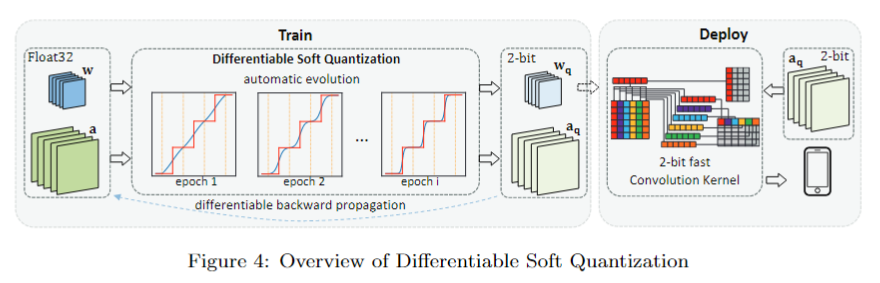
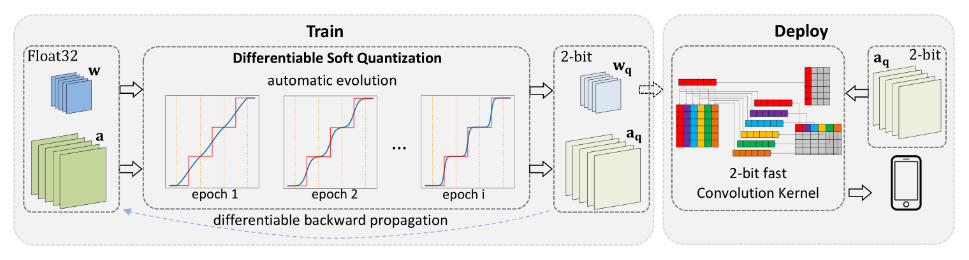
new pic

diff --git a/Binary Neural Networks A Survey.md b/Binary Neural Networks A Survey.md
@@ -155,13 +155,15 @@ $$
 
 Binary Neural Networks+ (BNN+)直接提出了改进的sign function导数近似，该函数鼓励二进制周围学习权重
 
-good quantization functions in forward propagation
+good quantization functions in forward propagation减少梯度误差
 
 **Differential Soft Quantization (DSQ)** method replacing the traditional quantization function with a soft quantization function
 $$
 \varphi(x)=s\tanh\left(k\left(x-m_i\right)\right),\quad\mathrm{if}\quad x\in\mathcal{P}_i
 $$
 where k determines the shape of the asymptotic function, s is a scaling factor to make the soft quantization function smooth and mi is the center of the interval Pi.
+
+![fig4](https://github.com/hamingsi/papers_notes/raw/478f56ea06eba01e9bae3337d4f8f616fdc876d8/pictures/BNN/fig4.png)
 
 IR-Net provided a new perspective for improving BNNs that retaining **both forward and backward information** is crucial for accurate BNNs, and it is **the first to** design BNNs considering both forward and backward information retention
 
@@ -226,8 +228,24 @@ XNOR-Net 提出了 smooth transition  addition shortcuts scale factors
 
 ##### Future Trend and Conclusions
 
-在前向和反向中保留好信息
+1.在前向和反向中保留好信息
 
-customizing or transferring binary networks for different tasks, designing hardware-friendly or energy-economic binarization algorithms, etc.
+2.customizing or transferring binary networks for different tasks, designing hardware-friendly or energy-economic binarization algorithms, etc.
 
-8-bit训练的可能性
+3.8-bit训练的可能性
+
+
+
+
+
+Binarized Neural Networks
+
+XNOR-Net: ImageNet Classification Using Binary Convolutional Neural Networks
+
+Bi-Real Net: Enhancing the Performance of 1-bit CNNs With Improved Representational Capability and Advanced Training Algorithm
+
+Estimating or propagating gradients through stochastic neurons for conditional computation
+
+(gradient problem occurring when training deep networks binarized by sign function)
+
+BinaryConnect: Training Deep Neural Networks with binary weights during propagations
